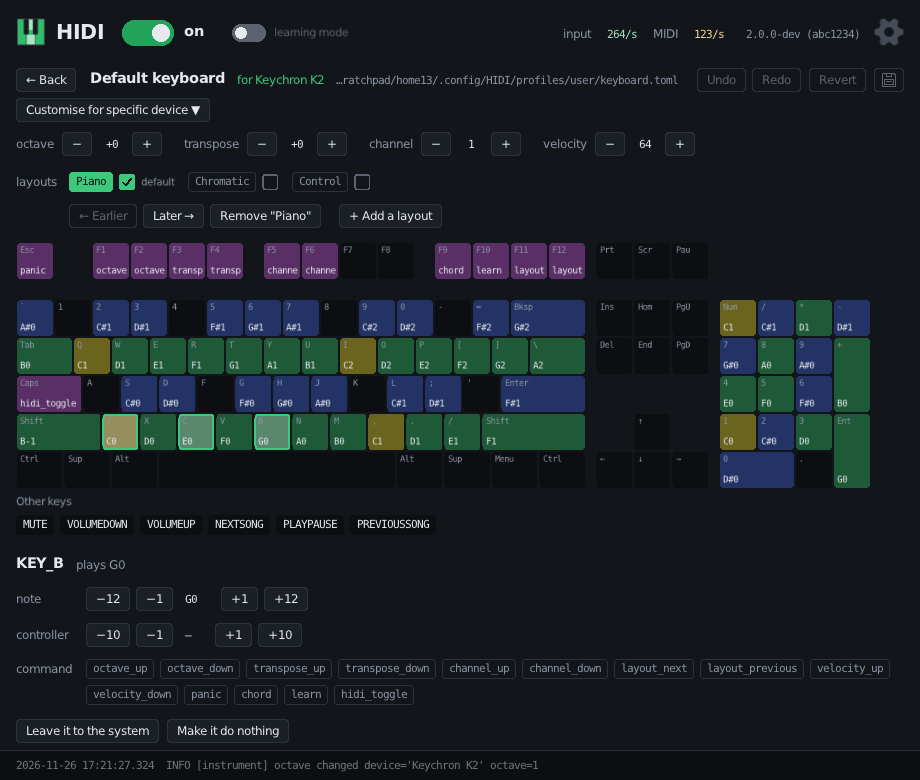
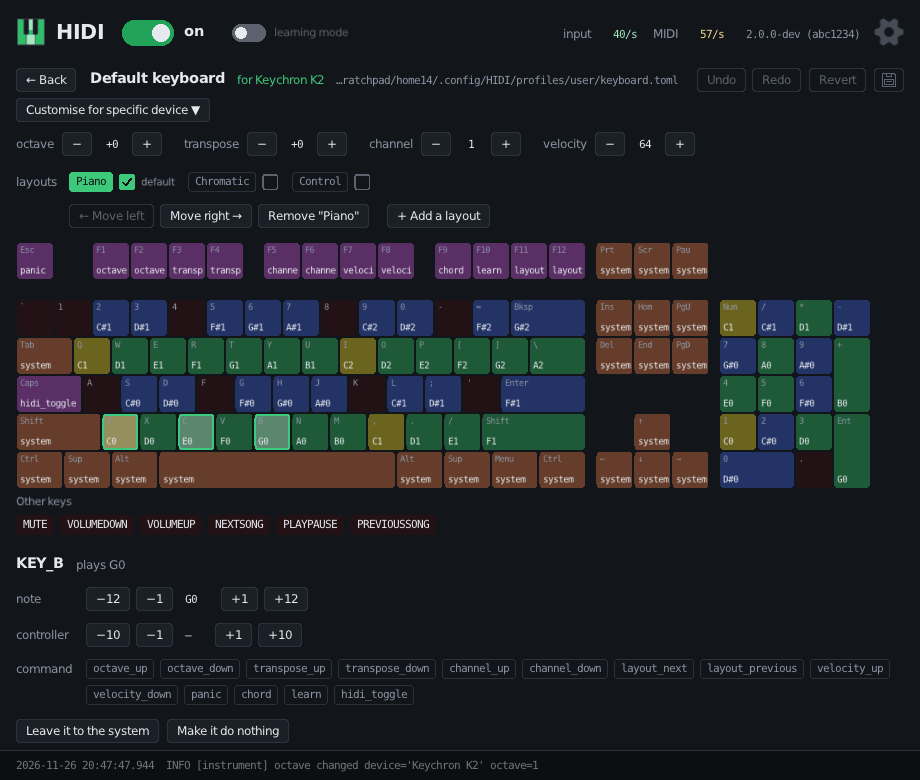
Roadmap and picture for the thirteenth round
docs/roadmap.md gets the thirteenth round, as a table of what was asked
for and what was done, and the third pass of the review as far as it
went: the fixes, each with its test, and what was made one.

The picture of the profile page in the README shows the factory keyboard
as it is now, with the keys left to the system, the velocity on F7 and
F8, the keys that do nothing barely red, and Move left and Move right.

Claude-Session: https://claude.ai/code/session_01BSpi87DutHCzCjSX2Ru5Rd

diff --git a/docs/roadmap.md b/docs/roadmap.md
@@ -86,6 +86,40 @@ is moved or resized on Windows. The branch is kept for when the change has
 found its way into raylib, or raylib-go 0.63 is taken up; it does not have
 the sixth round.
 
+### Thirteenth round (26 November 2026): what was reported, and what was done
+
+| Reported or asked for | Done |
+|---|---|
+| "a profile is no longer tried" should be a debug message | It is. |
+| Caps Lock held with "pass the toggle through" while HIDI is off stays lit, on the keyboard and in the window, until another key is pressed | The lights were shown before each event was recorded, and the toggle key was not shown again after it. It goes through the same step as every other key now. |
+| Earlier, Later and Remove on the profile page are broken; rename to Move left and Move right | The buttons after a clicked one were drawn on top of it in that frame and took the same click: Earlier also moved back, removed, and opened the field for a new layout. Each button keeps its place now. On a factory profile the four buttons are faint. |
+| Commands are the same in every layout; make them each layout's own, in the format and in the engine, without side effects on a release in another layout | Profile schema 2: every layout holds all of its bindings, `[global]` holds only `hidi_toggle`. Schema 1 files are read as before, and the window writes them in the new form with their first change. A new layout begins with the commands of the one it is made from. The engine already sent a release to what was pressed; it is held down by a test now. |
+| Factory keyboard: no notes on Shift, Tab and Grave in Piano and Chromatic; the modifiers, space, arrows and the keys above them left to the system; velocity on F7 and F8 | Done. |
+| Learning key yellow, velocity keys cyan by the velocity, chord key purple, dim when off | Three colours of their own among the settings: `learn`, `chord`, `velocity`. |
+| A setting for the velocity step, 16, with values that do not drift at the ends | `input.velocity_step`, 16. The velocity moves along a ladder from the profile's velocity, stops at 1 and 127, and comes back the same way. |
+| Holding + and − should repeat, 500 ms then every 100 ms | Every stepper and the note and controller steps on the profile page. |
+| Buttons show no click | Every button is tinted green while held; a repeating one blinks with every click, half on, half off. |
+| Keys that do nothing slightly red, as the lights show them | A dark red hint on the profile page and the main page. |
+| A review of the code | See "Review of the code, third pass". |
+
+### Review of the code, third pass (26 November 2026)
+
+Fixed, each with a test that fails without the fix:
+
+- Two devices toggling HIDI, or learning mode, at the same moment could
+  count as one toggle.
+- A profile of schema 1 whose layout bound a control of `[global]` in
+  another spelling failed to load after the change to schema 2.
+- A layout whose name has an escape in it could not be changed.
+- `enabled = false` was not heeded for profiles in a directory named
+  with `--profiles`.
+- One half of a stick that stopped bending the pitch took the bend of the
+  other half back.
+
+Made one: what a controller or pitch-bend action drives (three copies in
+the engine), the type of a device, the key of a generated binding, the
+line ending of a new line, the fingerprint of the profile directories.
+
 ### Twelfth round (26 November 2026): what was reported, and what was done
 
 | Reported or asked for | Done |
